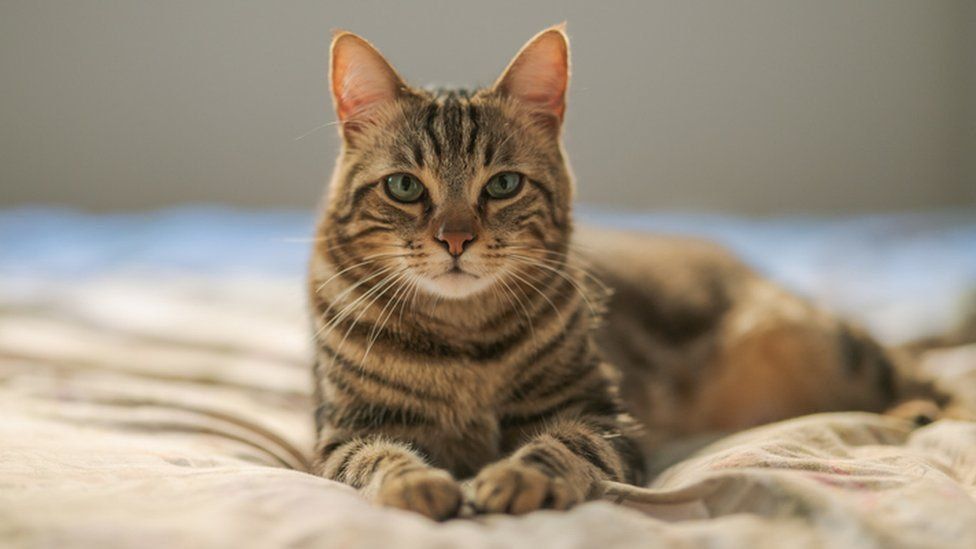
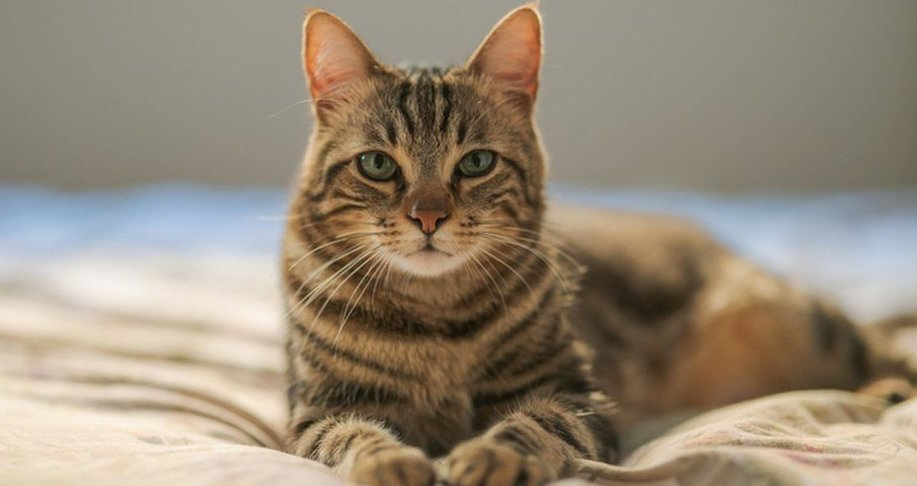
Add intro section

diff --git a/t1/index.html b/t1/index.html
@@ -18,6 +18,8 @@
     <body>
         <nav class="navbar navbar-expand-md navbar-dark fixed-top bg-dark">
             <a class="navbar-brand" href="#"><i class="fas fa-cat"></i> Gatos</a>
+
+            <!-- Hamburger menu -->
             <button class="navbar-toggler" type="button" data-toggle="collapse" data-target="#navbarsExampleDefault"
                 aria-controls="navbarsExampleDefault" aria-expanded="false" aria-label="Toggle navigation">
                 <span class="navbar-toggler-icon"></span>
@@ -25,14 +27,11 @@
 
             <div class="collapse navbar-collapse" id="navbarsExampleDefault">
                 <ul class="navbar-nav ml-auto">
-                    <li class="nav-item active">
-                        <a class="nav-link" href="#">Link <span class="sr-only">(current)</span></a>
+                    <li class="nav-item">
+                        <a class="nav-link" href="#intro">Resumo</a>
                     </li>
                     <li class="nav-item">
-                        <a class="nav-link" href="#">Link</a>
-                    </li>
-                    <li class="nav-item">
-                        <a class="nav-link disabled" href="#" tabindex="-1" aria-disabled="true">Disabled</a>
+                        <a class="nav-link" href="#history">Breve História</a>
                     </li>
                     <li class="nav-item dropdown">
                         <a class="nav-link dropdown-toggle" href="#" id="dropdown01" data-toggle="dropdown"
@@ -49,42 +48,56 @@
 
         <main role="main">
             <div class="container" style="padding-top: 5em;">
-                <!-- Main jumbotron for a primary marketing message or call to action -->
                 <div class="jumbotron text-center">
                 </div>
 
-                <!-- Example row of columns -->
-                <div class="row">
-                    <div class="col-md-4">
-                        <h2>Heading</h2>
-                        <p>Donec id elit non mi porta gravida at eget metus. Fusce dapibus, tellus ac cursus
-                            commodo,
-                            tortor mauris condimentum nibh, ut fermentum massa justo sit amet risus. Etiam porta sem
-                            malesuada magna mollis euismod. Donec sed odio dui. </p>
-                        <p><a class="btn btn-secondary" href="#" role="button">View details &raquo;</a></p>
-                    </div>
-                    <div class="col-md-4">
-                        <h2>Heading</h2>
-                        <p>Donec id elit non mi porta gravida at eget metus. Fusce dapibus, tellus ac cursus
-                            commodo,
-                            tortor mauris condimentum nibh, ut fermentum massa justo sit amet risus. Etiam porta sem
-                            malesuada magna mollis euismod. Donec sed odio dui. </p>
-                        <p><a class="btn btn-secondary" href="#" role="button">View details &raquo;</a></p>
-                    </div>
-                    <div class="col-md-4">
-                        <h2>Heading</h2>
-                        <p>Donec sed odio dui. Cras justo odio, dapibus ac facilisis in, egestas eget quam.
-                            Vestibulum
-                            id ligula porta felis euismod semper. Fusce dapibus, tellus ac cursus commodo, tortor
-                            mauris
-                            condimentum nibh, ut fermentum massa justo sit amet risus.</p>
-                        <p><a class="btn btn-secondary" href="#" role="button">View details &raquo;</a></p>
-                    </div>
-                </div>
+                <section id="intro">
+                    <h2>Resumo</h2>
+                    <p>O <b>gato</b> <i>(Felis silvestris catus)</i>, comummente conhecido como gato caseiro, gato
+                        urbano ou gato doméstico, é um mamífero carnívoro da família dos felídeos, muito popular como
+                        animal de estimação. Ocupando o topo da cadeia alimentar, é predador natural de diversos
+                        animais, tais como: roedores, pássaros e alguns insetos. Segundo pesquisas realizadas por
+                        instituições norte-americanas, os gatos consistem no segundo animal de estimação mais popular do
+                        mundo, estando atrás apenas dos peixes de aquário. Para além disto, dados provenientes de censos
+                        apontam que nos Estados Unidos existem mais gatos domésticos do que cães.
+                    </p>
+
+                    <p>
+                        Existem cerca de 250 raças de gato doméstico, cujo peso variável entre 2,5 a 12 kg classifica a
+                        espécie como animal doméstico de pequeno a médio porte. Assim como ocorre com as raças de cães
+                        que apresentam esta mesma faixa de peso, o gato doméstico pode viver entre quinze e vinte anos.
+                        Devido à sua personalidade independente, tornou-se um animal de companhia em diversos lares ao
+                        redor do mundo, agradando pessoas dos mais variados estilos de vida.
+                    </p>
+                    <p>
+                        Na nossa cultura, o gato impõe-se como figura de mitologia e superstições e também com forte
+                        presença em bandas desenhadas, desenhos animados, filmes, contos, entre outros tipos de
+                        entretenimento. Alguns dos exemplos conhecidos são:
+                    <ul>
+                        <li><b>O Gato das Botas:</b> figura de bandas desenhadas, desenhos e filmes animados.</li>
+                        <li><b>Garfield:</b> personagem presente em bandas desenhas, desenhos animados e filmes (tanto
+                            de animação como de comédia com atores reais).</li>
+                        <li><b>Cats:</b> uma peça de teatro musical, com recente adpatação em cinema.</li>
+                    </ul>
+                    </p>
+                </section>
+
+                <section id="history">
+                    <h2>Breve História</h2>
+                    <p>Ola</p>
+                </section>
+
+                <section id="characteristics">
+                    <h2>Características</h2>
+                </section>
+
+                <section id="trivia">
+                    <h2>Curiosidades / Factos Interessantes</h2>
+                </section>
 
                 <hr>
 
-            </div> <!-- /container -->
+            </div>
 
         </main>
 

diff --git a/t1/css/mine.css b/t1/css/mine.css
@@ -1,5 +1,5 @@
 .jumbotron {
-	background-image: url("https://ichef.bbci.co.uk/news/976/cpsprodpb/12A9B/production/_111434467_gettyimages-1143489763.jpg");
+	background-image: url("../img/cat.jpg");
 	background-repeat: no-repeat;
 	background-size: cover;
 	background-position: center top;
@@ -7,23 +7,11 @@
 	height: 25rem;
 }
 
-.slider-block {
-	height: 350px;
-	display: inline-block;
+section {
+	margin-bottom: 2em;
 }
 
-.carousel {
-	height: 100%;
-}
-
-.carousel .carousel-inner {
-	height: 100%;
-}
-
-.carousel .carousel-item {
-	background-repeat: no-repeat;
-	background-size: cover;
-	background-position: center center;
-	width: 100%;
-	height: 100%;
+section>p {
+	text-align: justify;
+	text-justify: inter-word;
 }
